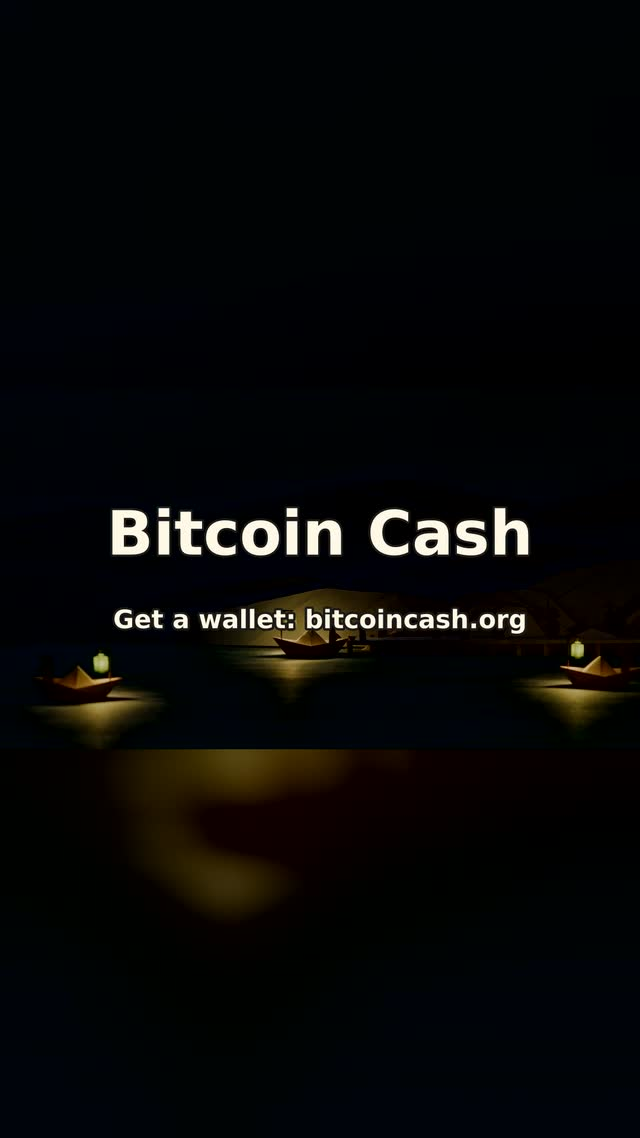
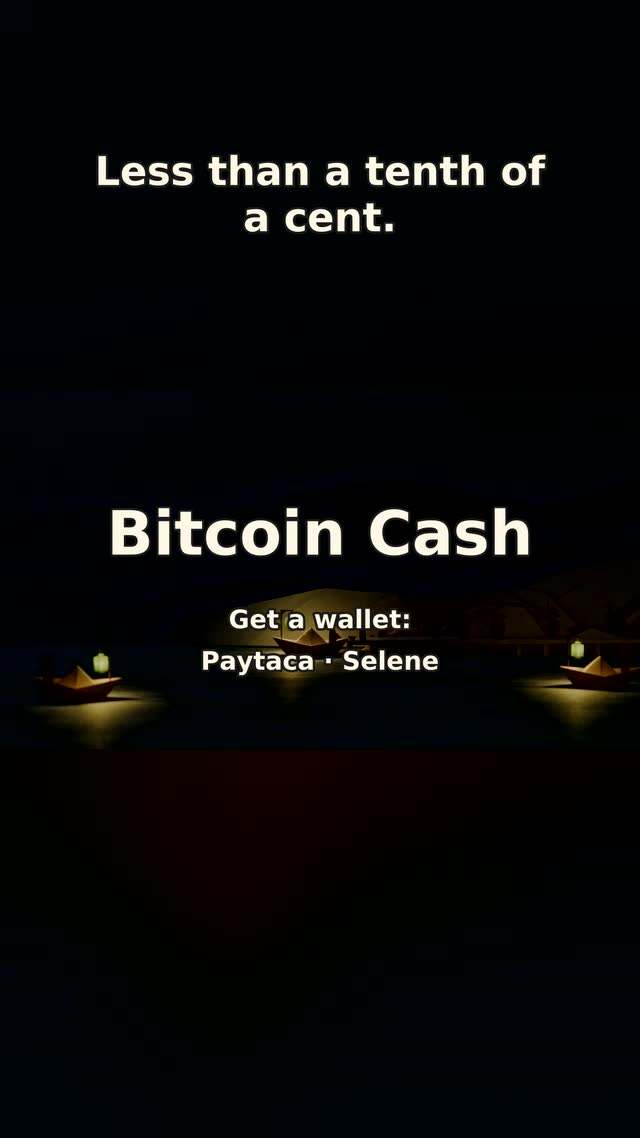
F3: short uses the 9:16 bands with its own figures and end card time; narrated short and its silent copy rendered in one pass and measured (speech match 1.0, mix gap 12.2 dB, band cover 0.94 / 0.91)

diff --git a/tools/short.py b/tools/short.py
@@ -3,8 +3,12 @@
 Picture: the segments [start, end] (film seconds, config/short.json) are cut from the 9:16 clean master, so the layout and
 the end card are the film's own; joins are `xfade` of `crossfade_s`. Sound: the same segments of the film mix joined
 with `acrossfade` of the same length (picture and sound stay in step), a fade out at the end, then the film's two-pass
-loudnorm. Captions: config/captions.short.en.json in short seconds, drawn with the film's caption style for `source`.
-Writes clean-short-9x16.mp4 (no captions, for the caption pixel check) and sampan-river-short-9x16.mp4 to `edit.out_dir`.
+loudnorm. Captions: config/captions.short.en.json in short seconds, drawn like the source: the bands of decision 0010
+(top band captions, bottom band figures from config/bands.json `short-9x16`) when the source has them, else the line.
+Narration (decision 0012): the bed is cut first, then the cached takes of the short's lines are placed and ducked over
+that cut bed (the narrated film is never cut). The silent copy `<version><silent_suffix>` is written in the same pass.
+Writes clean-short-9x16.mp4 (no captions, for the pixel check), mix-short-9x16.wav (cut bed), sampan-river-short-9x16.mp4,
+its silent copy and narration-short-9x16.json (mix stats) to `edit.out_dir`.
 Usage: python3 tools/short.py
 """
 import copy
@@ -55,14 +59,31 @@ def check_cues(short, cues):
         raise ShortError(f"no caption starts in the first {short['hook_max_s']} s")
 
 
+def to_short(short, t):
+    """Short second at which film second `t` is shown; a time in a gap maps to the start of the next segment."""
+    s, c = 0.0, float(short["crossfade_s"])
+    for a, b in short["segments"]:
+        if t <= b:
+            return round(s + max(0.0, t - a), 3)
+        s += b - a - c
+    return total_s(short)
+
+
 def short_film(film, short):
-    """A copy of film.json in which `version` has the source's size, caption style and band, and the short's length."""
+    """A copy of film.json in which `version` has the source's size, layout, caption style, bands and band, the
+    short's length and hook window, and the end card start in short seconds."""
     f, v, src = copy.deepcopy(film), short["version"], short["source"]
     f["output"][v] = f["output"][src]
+    for key in ("layout", "orientation"):
+        f["edit"][key][v] = f["edit"][key][src]
     for key in ("size", "margin_v", "max_chars_per_line"):
         f["captions"][key][v] = f["captions"][key][src]
+    if src in f["captions"].get("bands", {}):
+        f["captions"]["bands"][v] = f["captions"]["bands"][src]
     f["measure"]["caption_band"][v] = f["measure"]["caption_band"][src]
-    f["duration_s"] = {"min": short["duration_s"]["min"], "max": short["duration_s"]["max"], "target": total_s(short)}
+    f["duration_s"] = {"min": short["duration_s"]["min"], "max": short["duration_s"]["max"], "target": total_s(short),
+                       "hook_max_s": short["hook_max_s"]}
+    f["end_card"]["start_s"] = to_short(short, float(film["end_card"]["start_s"]))
     return f
 
 
@@ -132,20 +153,22 @@ def main(argv):
     for p in (source_clean, source_mix):
         if not os.path.exists(p):
             raise ShortError(f"{p} missing: run tools/mix.py and tools/edit.py {src} first")
-    ass = os.path.join(out_dir, f"captions-{v}.ass")
-    with open(ass, "w", encoding="utf-8") as f:
-        f.write(captions.captions_ass(cues, sf, v))
-    clean = os.path.join(out_dir, f"clean-{v}.mp4")
-    edit.run(clean_cmd(short, sf, source_clean, clean), out_dir)
     mix_path = os.path.join(out_dir, f"mix-{v}.wav")
     edit.run(mix_cmd(short, sf, source_mix, mix_path), out_dir)
-    probe = edit.run(["ffmpeg", "-hide_banner", "-i", mix_path, "-af",
-                      f"loudnorm={edit.loudnorm_target(sf)}:print_format=json", "-f", "null", "-"], out_dir)
-    measured = edit.parse_loudnorm(probe.stderr)
+    voiced = edit.narration(sf, v)
+    ass = os.path.join(out_dir, f"captions-{v}.ass")
+    with open(ass, "w", encoding="utf-8") as f:
+        f.write(captions._burned(cues, sf, v))
+    clean = os.path.join(out_dir, f"clean-{v}.mp4")
+    edit.run(clean_cmd(short, sf, source_clean, clean), out_dir)
+    measured, ln = edit.loudnorm_pass2(sf, voiced[0] if voiced else mix_path, out_dir)
     final = os.path.join(out_dir, f"sampan-river-{v}.mp4")
-    edit.run(edit.final_cmd(sf, clean, mix_path, os.path.basename(ass), edit.second_pass(sf, measured), final), out_dir)
-    print(json.dumps({"clean": os.path.relpath(clean, ROOT), "final": os.path.relpath(final, ROOT),
-                      "duration_s": total_s(short), "loudnorm_pass1": measured}))
+    edit.run(edit.final_cmd(sf, clean, voiced[0] if voiced else mix_path, os.path.basename(ass), ln, final), out_dir)
+    report = {"clean": os.path.relpath(clean, ROOT), "final": os.path.relpath(final, ROOT),
+              "duration_s": total_s(short), "loudnorm_pass1": measured}
+    if voiced:
+        report.update(edit.write_silent(sf, v, final, mix_path, voiced[1], out_dir))
+    print(json.dumps(report))
     return 0
 
 

diff --git a/tests/test_short.py b/tests/test_short.py
@@ -5,7 +5,7 @@ import os
 import re
 import unittest
 
-from tools import short
+from tools import captions, short
 
 ROOT = os.path.dirname(os.path.dirname(os.path.abspath(__file__)))
 
@@ -69,8 +69,41 @@ class ShortTest(unittest.TestCase):
         self.assertEqual(sf["output"]["short-9x16"], self.film["output"]["9x16"])
         self.assertEqual(sf["captions"]["margin_v"]["short-9x16"], self.film["captions"]["margin_v"]["9x16"])
         self.assertEqual(sf["measure"]["caption_band"]["short-9x16"], self.film["measure"]["caption_band"]["9x16"])
-        self.assertEqual(sf["duration_s"], {"min": 15, "max": 20, "target": 17.0})
+        self.assertEqual(sf["duration_s"], {"min": 15, "max": 20, "target": 17.0, "hook_max_s": 3.0})
+        self.assertEqual(sf["edit"]["layout"]["short-9x16"], self.film["edit"]["layout"]["9x16"])
+        self.assertEqual(sf["captions"]["bands"]["short-9x16"], self.film["captions"]["bands"]["9x16"])
         self.assertNotIn("short-9x16", self.film["output"])
+        self.assertNotIn("short-9x16", self.film["captions"]["bands"])
+
+    def test_film_seconds_map_to_short_seconds(self):
+        # segments [0, 4] [10, 16] [50, 58], crossfade 0.5: second segment starts at 3.5, third at 9.0
+        self.assertEqual(short.to_short(self.short, 2.0), 2.0)
+        self.assertEqual(short.to_short(self.short, 12.0), 5.5)
+        self.assertEqual(short.to_short(self.short, 50.0), 9.0)
+        self.assertEqual(short.to_short(self.short, 30.0), 9.0)  # in a gap: start of the next segment
+        self.assertEqual(short.to_short(self.short, 59.0), short.total_s(self.short))
+
+    def test_end_card_starts_in_short_seconds(self):
+        sf = short.short_film(self.film, self.short)
+        self.assertEqual(sf["end_card"]["start_s"], short.to_short(self.short, self.film["end_card"]["start_s"]))
+        self.assertEqual(self.film["end_card"]["start_s"], load("config/film.json")["end_card"]["start_s"])
+
+    def test_committed_short_bands_fit_and_are_sourced(self):
+        from tools import bands
+        sh, cues = load("config/short.json"), load("config/captions.short.en.json")["cues"]
+        sf, rows = short.short_film(self.film, sh), bands.rows_for(sh["version"])
+        with open(os.path.join(ROOT, "docs", "FACTS.md"), encoding="utf-8") as f:
+            facts = f.read()
+        self.assertEqual(bands.check_layout(sf, sh["version"], cues, rows), [])
+        self.assertEqual(bands.check_figures(rows, cues, facts, sf), [])
+        spans, card = bands.intervals(sf, sh["version"], cues, rows), sf["end_card"]["start_s"]
+        for band in ("top", "bottom"):
+            self.assertGreaterEqual(bands.cover(spans[band], card), sf["measure"]["band_cover_min"])
+        late = copy.deepcopy(rows)
+        late[-1]["end"] = card + 1.0
+        self.assertTrue(bands.check_figures(late, cues, facts, sf))
+        burned = captions._burned(cues, sf, sh["version"])
+        self.assertIn("BandFigure", burned)
 
     def test_committed_short_fits_the_plan(self):
         sh, cues = load("config/short.json"), load("config/captions.short.en.json")["cues"]

diff --git a/tools/edit.py b/tools/edit.py
@@ -151,6 +151,16 @@ def narration(film, version):
     return res["wav"], res["mix"]
 
 
+def write_silent(film, version, final, bed, stats, out_dir):
+    """The silent copy of a narrated render (same video stream, the bed alone) and narration-<version>.json."""
+    silent = os.path.join(out_dir, f"sampan-river-{version}{film['audio']['speech_check']['silent_suffix']}.mp4")
+    bed_measured, bed_ln = loudnorm_pass2(film, bed, out_dir)
+    run(silent_cmd(film, final, bed, bed_ln, silent), out_dir)
+    with open(os.path.join(out_dir, f"narration-{version}.json"), "w", encoding="utf-8") as f:
+        json.dump(stats, f)
+    return {"silent": os.path.relpath(silent, ROOT), "mix": stats, "loudnorm_pass1_silent": bed_measured}
+
+
 def main(argv):
     if len(argv) != 1 or argv[0] not in ("16x9", "9x16"):
         print(__doc__.strip().splitlines()[-1], file=sys.stderr)
@@ -173,12 +183,7 @@ def main(argv):
     report = {"clean": os.path.relpath(clean, ROOT), "final": os.path.relpath(final, ROOT),
               "srt": os.path.relpath(subs["srt"], ROOT), "loudnorm_pass1": measured}
     if voiced:
-        silent = os.path.join(out_dir, f"sampan-river-{version}{film['audio']['speech_check']['silent_suffix']}.mp4")
-        bed_measured, bed_ln = loudnorm_pass2(film, bed, out_dir)
-        run(silent_cmd(film, final, bed, bed_ln, silent), out_dir)
-        with open(os.path.join(out_dir, f"narration-{version}.json"), "w", encoding="utf-8") as f:
-            json.dump(voiced[1], f)
-        report.update(silent=os.path.relpath(silent, ROOT), mix=voiced[1], loudnorm_pass1_silent=bed_measured)
+        report.update(write_silent(film, version, final, bed, voiced[1], out_dir))
     print(json.dumps(report))
     return 0
 

diff --git a/docs/MEASURED.md b/docs/MEASURED.md
@@ -57,9 +57,10 @@ drawn over the dimmed jetty picture in the middle of the frame.
 |---|---|---|---|---|---|---|---|---|---|---|
 | 16x9 | 1920 | 1080 | 60.0 | yes | -14.0 | -1.4 | 67 | 0.973 | 10/10 | cfff07f113d73e36b0dcf99c87288f5886f0de7b79de53ce26b2fdba0eadba85 |
 | 9x16 | 1080 | 1920 | 60.0 | yes | -14.0 | -1.4 | 67 | 0.973 | 14/14 | 1530a180ad7361cad01bdca7400b35fcf899e00d235625229e17e17f344fd3cc |
-| short-9x16 | 1080 | 1920 | 18.6 | yes | -14.0 | -3.2 | 0 | - | 4/4 | 253a5ebdf345118d5c62e0d38f5811b0a0848961496f1db2ababa374e827b8f1 |
+| short-9x16 | 1080 | 1920 | 18.6 | yes | -14.1 | -1.5 | 27 | 1.0 | 8/8 | 513802012c8fda9f594633827b25f42378691726a0808eec2ca683416c0a3f79 |
 | 16x9-tanpa-suara | 1920 | 1080 | 60.0 | yes | -13.9 | -1.5 | 0 | - | 10/10 | 53598d66b72a52e9fe4e4c554fa38df4faad54bfe54b777b7975b9b345b4a0e8 |
 | 9x16-tanpa-suara | 1080 | 1920 | 60.0 | yes | -13.9 | -1.5 | 0 | - | 14/14 | f990017876f5177cce948ad74d5269eda8e5a39e7fce9d47e817c4ee7252e2cf |
+| short-9x16-tanpa-suara | 1080 | 1920 | 18.6 | yes | -14.0 | -3.2 | 0 | - | 8/8 | f21d1a56e3c58223626977bf7e137c9c5c7b40aa3a42a4ae2bda3c02d3792168 |
 
 <!-- detail:16x9 -->
 ### 16x9 detail
@@ -178,18 +179,45 @@ Mean ratio to blur_fill: 4:5 0.103, 1:1 0.196. Limit: 0.55. Chosen: blur_fill (n
 <!-- detail:short-9x16 -->
 ### short-9x16 detail
 
-Video h264 High yuv420p 24.0 fps, 18.583 s; audio aac 48000 Hz 2 ch, 18.6 s. Silences over the limit in the opening seconds: 0. Failed limits: none.
+Video h264 High yuv420p 24.0 fps, 18.583 s; audio aac 48000 Hz 2 ch, 18.6 s. Silences over the limit in the opening seconds: 0. Failed limits: none. Heard: "Sending $5 should not cost $5. A digital dollar on Bitcoin Cash. The fare for a real transfer, 219 satoshis, less than a tenth of a cent."; speech match 1.0.
 
 | sample | t (s) | caption band diff | pass |
 |---|---|---|---|
-| cue 1 | 1.7 | 10.62 | yes |
-| cue 2 | 5.4 | 13.56 | yes |
-| cue 3 | 8.8 | 15.45 | yes |
-| cue 4 | 11.45 | 10.29 | yes |
-| gap 2 | 3.5 | 0.17 | yes |
-| gap 3 | 7.2 | 0.1 | yes |
-| gap 4 | 10.35 | 0.25 | yes |
-| gap 5 | 15.5 | 0.04 | yes |
+| top cue 1 | 1.875 | 7.45 | yes |
+| top cue 2 | 5.475 | 7.69 | yes |
+| top cue 3 | 9.45 | 11.38 | yes |
+| top cue 4 | 15.05 | 7.36 | yes |
+| bottom cue 1 | 1.75 | 5.88 | yes |
+| bottom cue 2 | 5.3 | 6.09 | yes |
+| bottom cue 3 | 9.25 | 15.3 | yes |
+| bottom cue 4 | 11.95 | 16.39 | yes |
+| bottom gap 2 | 3.45 | 0.03 | yes |
+| bottom gap 3 | 7.2 | 0.01 | yes |
+| bottom gap 5 | 15.6 | 0.0 | yes |
+
+Bands (decision 0010): share of 0..12.6 s with text, minimum 0.7.
+
+| version | band | cover | min |
+|---|---|---|---|
+| short-9x16 | top | 0.944 | 0.7 |
+| short-9x16 | bottom | 0.913 | 0.7 |
+
+Text contrast (WCAG, text #FFF8E7 over the clean master inside each text box), minimum 4.5.
+
+| band | t (s) | contrast |
+|---|---|---|
+| top | 1.875 | 13.72 |
+| top | 5.475 | 11.12 |
+| top | 9.45 | 19.83 |
+| top | 15.05 | 19.83 |
+| bottom | 1.75 | 19.81 |
+| bottom | 1.75 | 19.83 |
+| bottom | 5.3 | 19.83 |
+| bottom | 5.3 | 19.83 |
+| bottom | 9.25 | 19.51 |
+| bottom | 9.25 | 19.83 |
+| bottom | 11.95 | 19.31 |
+| bottom | 11.95 | 19.83 |
 <!-- /detail:short-9x16 -->
 
 ## Narration mix
@@ -199,6 +227,7 @@ Video h264 High yuv420p 24.0 fps, 18.583 s; audio aac 48000 Hz 2 ch, 18.6 s. Sil
 | preview-16x9 | -16.0 | -28.97 | 12.97 | 0.0 |
 | 16x9 | -16.0 | -28.97 | 12.97 | 0.0 |
 | 9x16 | -16.0 | -28.97 | 12.97 | 0.0 |
+| short-9x16 | -16.0 | -28.17 | 12.17 | 0.0 |
 
 <!-- detail:16x9-tanpa-suara -->
 ### 16x9-tanpa-suara detail
@@ -285,3 +314,47 @@ Text contrast (WCAG, text #FFF8E7 over the clean master inside each text box), m
 | bottom | 50.25 | 19.74 |
 | bottom | 50.25 | 19.83 |
 <!-- /detail:9x16-tanpa-suara -->
+
+<!-- detail:short-9x16-tanpa-suara -->
+### short-9x16-tanpa-suara detail
+
+Video h264 High yuv420p 24.0 fps, 18.583 s; audio aac 48000 Hz 2 ch, 18.6 s. Silences over the limit in the opening seconds: 0. Failed limits: none.
+
+| sample | t (s) | caption band diff | pass |
+|---|---|---|---|
+| top cue 1 | 1.875 | 7.45 | yes |
+| top cue 2 | 5.475 | 7.69 | yes |
+| top cue 3 | 9.45 | 11.38 | yes |
+| top cue 4 | 15.05 | 7.36 | yes |
+| bottom cue 1 | 1.75 | 5.88 | yes |
+| bottom cue 2 | 5.3 | 6.09 | yes |
+| bottom cue 3 | 9.25 | 15.3 | yes |
+| bottom cue 4 | 11.95 | 16.39 | yes |
+| bottom gap 2 | 3.45 | 0.03 | yes |
+| bottom gap 3 | 7.2 | 0.01 | yes |
+| bottom gap 5 | 15.6 | 0.0 | yes |
+
+Bands (decision 0010): share of 0..12.6 s with text, minimum 0.7.
+
+| version | band | cover | min |
+|---|---|---|---|
+| short-9x16-tanpa-suara | top | 0.944 | 0.7 |
+| short-9x16-tanpa-suara | bottom | 0.913 | 0.7 |
+
+Text contrast (WCAG, text #FFF8E7 over the clean master inside each text box), minimum 4.5.
+
+| band | t (s) | contrast |
+|---|---|---|
+| top | 1.875 | 13.72 |
+| top | 5.475 | 11.12 |
+| top | 9.45 | 19.83 |
+| top | 15.05 | 19.83 |
+| bottom | 1.75 | 19.81 |
+| bottom | 1.75 | 19.83 |
+| bottom | 5.3 | 19.83 |
+| bottom | 5.3 | 19.83 |
+| bottom | 9.25 | 19.51 |
+| bottom | 9.25 | 19.83 |
+| bottom | 11.95 | 19.31 |
+| bottom | 11.95 | 19.83 |
+<!-- /detail:short-9x16-tanpa-suara -->

diff --git a/README.md b/README.md
@@ -33,17 +33,17 @@ Measured by `tools/measure.py` on the final files (per-cue detail in [the measur
 |---|---|---|---|---|---|---|---|
 | 16:9 | 1920x1080, 24 fps | 60.0 | -14.0 LUFS | -1.4 dBTP | 67 | 10 of 10 cues | `cfff07f1...` |
 | 9:16 | 1080x1920, 24 fps | 60.0 | -14.0 LUFS | -1.4 dBTP | 67 | 14 of 14 cues | `1530a180...` |
-| 9:16 short | 1080x1920, 24 fps | 18.6 | -14.0 LUFS | -3.2 dBTP | 0 | 4 of 4 cues | `253a5ebd...` |
+| 9:16 short | 1080x1920, 24 fps | 18.6 | -14.1 LUFS | -1.5 dBTP | 27 | 8 of 8 cues | `51380201...` |
 
 The short is four segments of the 9:16 film joined with crossfades (decision 0008).
 
-The 9:16 film uses the bands above and below the picture (decision 0010): the captions large at the top, one
-sourced figure at the bottom. Its cue count is the 10 captions plus the 4 figures.
+The 9:16 film and the short use the bands above and below the picture (decision 0010): the captions large at the top,
+one sourced figure at the bottom. Their cue counts are the captions plus the 4 figures (10 + 4 and 4 + 4).
 
-All are H.264 High with AAC 48 kHz stereo. "Words heard" is a local speech recognition pass over the final audio. The
-16:9 and 9:16 files are narrated: the pass must hear the captions read in order (speech match 0.973 on each, at least
-0.85 required), and the same picture without the voice is measured as a separate file with zero words heard. Zero on
-the short means no voice and no stray speech from the video model. The captions are also exported as an SRT file
+All are H.264 High with AAC 48 kHz stereo. "Words heard" is a local speech recognition pass over the final audio. All
+three files are narrated: the pass must hear the captions read in order (speech match 0.973 on the 16:9 and 9:16
+files, 1.0 on the short, at least 0.85 required), and the same picture without the voice is measured as a separate file
+with zero words heard, which also shows no stray speech from the video model. The captions are also exported as an SRT file
 for closed captions.
 
 ## Credits spent

diff --git a/docs/decisions/0010-native-vertical-bands.md b/docs/decisions/0010-native-vertical-bands.md
@@ -41,3 +41,11 @@ does not change; the bands are made to carry the story.
 ## Rollback
 Remove `9x16` from `captions.bands` in `config/film.json`: the 9:16 file goes back to the single caption line, then
 render again (same clips, no credits).
+
+## The short (added with the short render)
+
+The short reuses the 9:16 band style unchanged. Its bottom band rows are `config/bands.json` `short-9x16`, in short
+seconds. `tools/short.py` `short_film` maps the film's end card start into short seconds (`to_short`: the second at
+which that film second is shown after the crossfades), so the rule "no figure after the end card starts" and
+`band_cover` apply to the short's own end card. The narration is placed over the short's cut bed, never cut from the
+narrated film, and the silent copy is written in the same pass.
